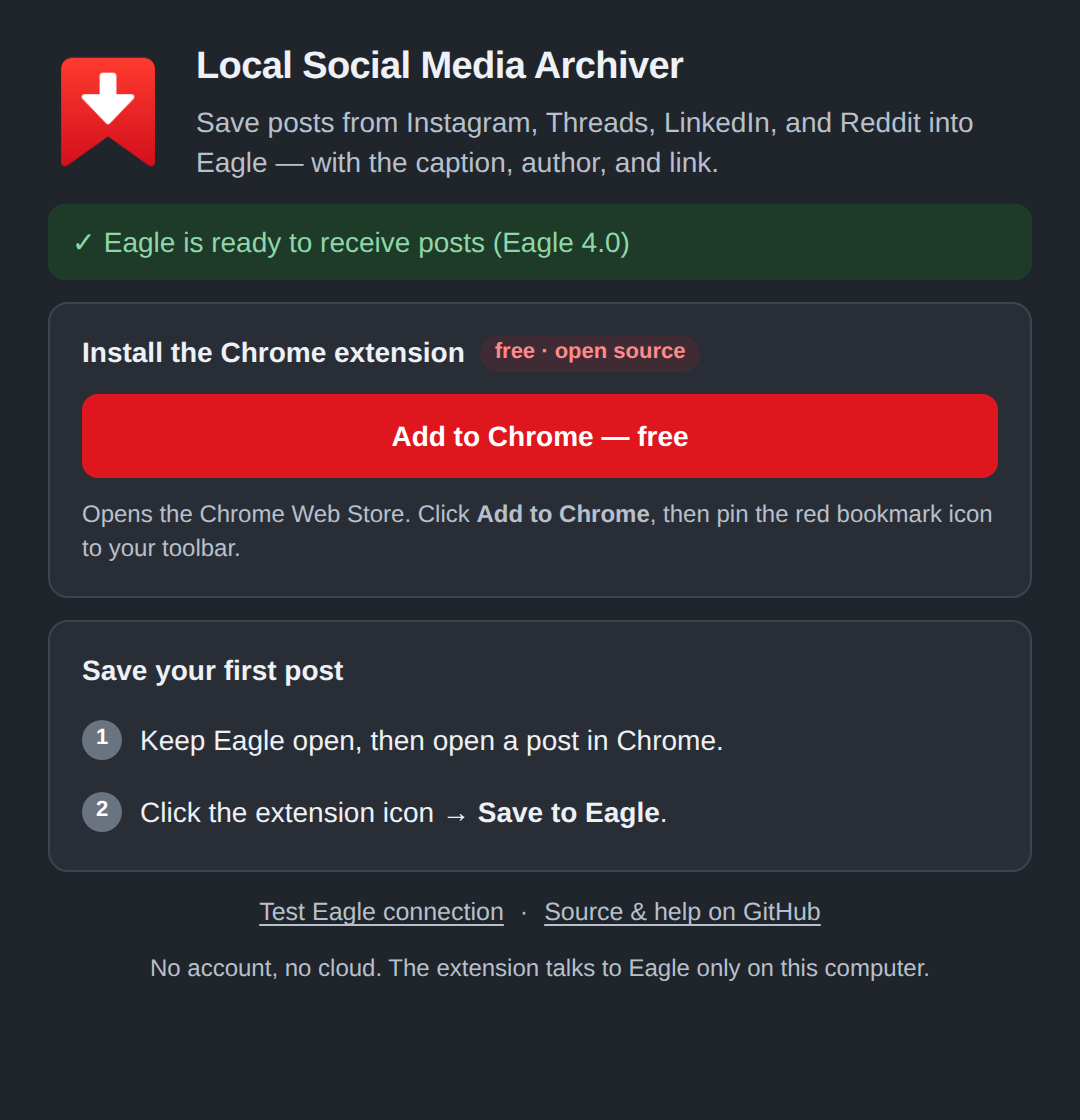
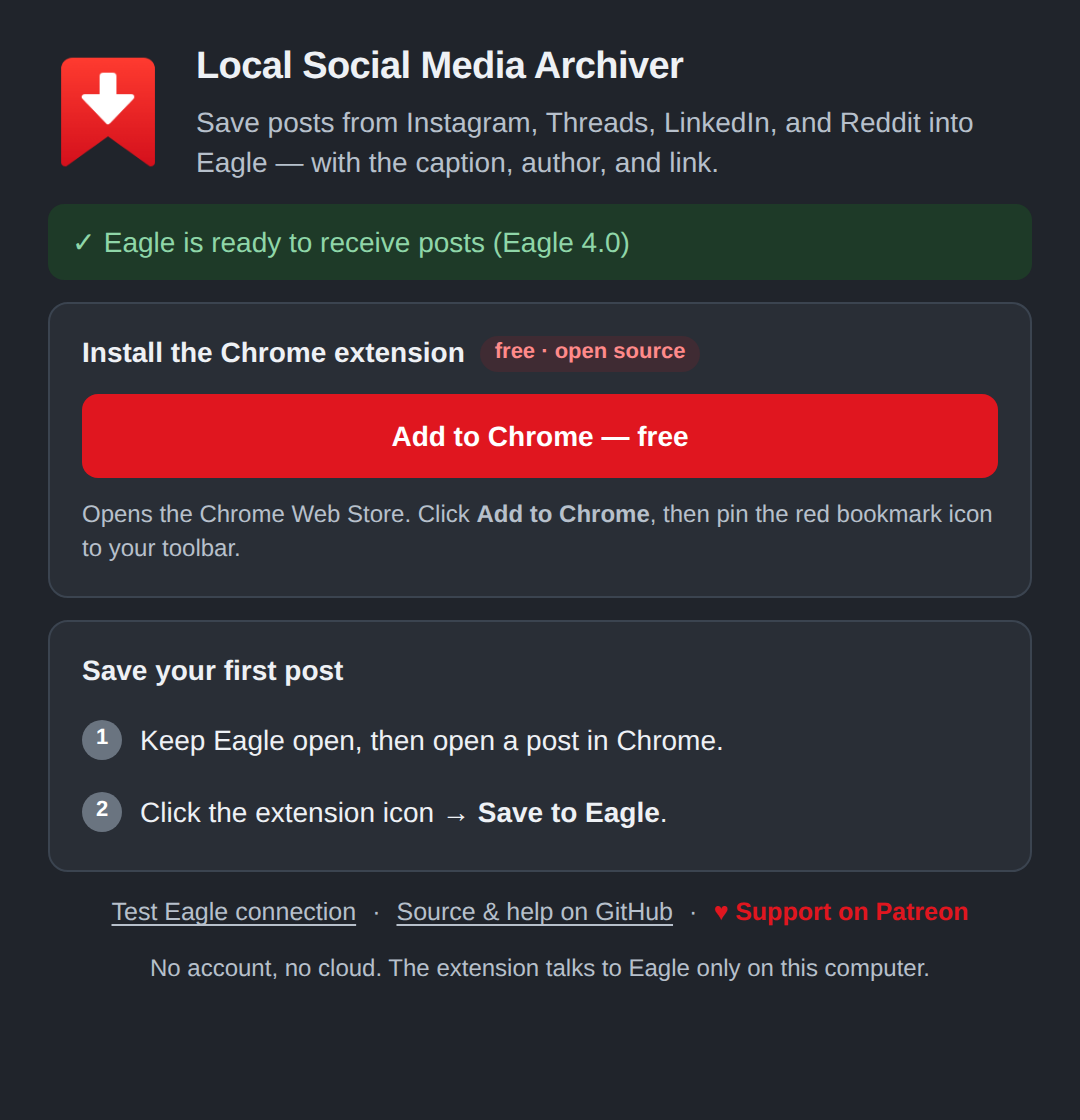
Add support links: Patreon, Telegram, GitHub Sponsor button
- .github/FUNDING.yml shows the Sponsor button on the repository
- Popup footer: "Support on Patreon" and Telegram links
- Eagle Companion footer link, opened in the system browser
- README Support section; Patreon in the marketplace listing draft
- Extension 0.2.1, Eagle Companion 0.2.2

Claude-Session: https://claude.ai/code/session_01BWzGfyfB5TgAkvLPHxc4Ut

Changed region(s): [[0.0917, 0.7812, 0.8861, 0.8438]]

diff --git a/eagle-companion/js/plugin.js b/eagle-companion/js/plugin.js
@@ -9,6 +9,7 @@ if (config.chromeWebStoreUrl) {
 document.querySelector('#open-store').addEventListener('click', () => openExternal(config.chromeWebStoreUrl));
 document.querySelector('#download-zip').addEventListener('click', () => openExternal(config.extensionZipUrl));
 document.querySelector('#open-repository').addEventListener('click', () => openExternal(config.repositoryUrl));
+document.querySelector('#open-support').addEventListener('click', () => openExternal(config.supportUrl));
 document.querySelector('#test-connection').addEventListener('click', testConnection);
 document.querySelector('#copy-extensions-url').addEventListener('click', async event => {
   // Chrome refuses to open chrome:// pages from other apps, so copy it instead.

diff --git a/eagle-companion/style.css b/eagle-companion/style.css
@@ -30,4 +30,6 @@ button.small { flex: none; padding: 6px 11px; font-size: 12.5px; }
 .status[data-state="error"] { background: #ffebeb; color: #a43232; }
 @media (prefers-color-scheme: dark) { .status[data-state="success"] { background: #1e3a28; color: #8fd6a8; } .status[data-state="warning"] { background: #3d321a; color: #f0c86e; } .status[data-state="error"] { background: #402426; color: #f2a0a0; } }
 footer { display: flex; justify-content: center; gap: 8px; color: var(--muted); font-size: 12.5px; }
+.link.support { color: var(--accent); font-weight: 600; text-decoration: none; }
+.link.support:hover { text-decoration: underline; }
 .privacy { margin: 0; color: var(--muted); font-size: 12px; text-align: center; }

diff --git a/chrome-extension/popup.css b/chrome-extension/popup.css
@@ -12,3 +12,7 @@ button { border: 0; border-radius: 8px; padding: 10px 12px; background: #e0161f;
 button:hover:not(:disabled) { filter: brightness(.92); }
 button:disabled { opacity: .6; cursor: wait; }
 output { min-height: 20px; white-space: pre-line; }
+.support { display: flex; gap: 12px; padding-top: 10px; border-top: 1px solid color-mix(in srgb, CanvasText 12%, transparent); font-size: 12px; }
+.support a { color: #777; text-decoration: none; }
+.support a:first-child { color: #e0161f; font-weight: 600; }
+.support a:hover { text-decoration: underline; }

diff --git a/eagle-companion/index.html b/eagle-companion/index.html
@@ -53,6 +53,8 @@
         <button id="test-connection" class="link">Test Eagle connection</button>
         <span aria-hidden="true">·</span>
         <button id="open-repository" class="link">Source &amp; help on GitHub</button>
+        <span aria-hidden="true">·</span>
+        <button id="open-support" class="link support">♥ Support on Patreon</button>
       </footer>
       <p class="privacy">No account, no cloud. The extension talks to Eagle only on this computer.</p>
     </main>

diff --git a/chrome-extension/popup.html b/chrome-extension/popup.html
@@ -18,6 +18,10 @@
       </label>
       <output id="status" aria-live="polite"></output>
       <small>Data and cookies are not sent to external servers.</small>
+      <nav class="support">
+        <a href="https://www.patreon.com/c/d_degtyar" target="_blank" rel="noopener">♥ Support on Patreon</a>
+        <a href="https://t.me/I2need" target="_blank" rel="noopener">Telegram</a>
+      </nav>
     </main>
     <script src="popup.js"></script>
   </body>

diff --git a/eagle-companion/js/config.js b/eagle-companion/js/config.js
@@ -5,5 +5,6 @@
 globalThis.LSMA_CONFIG = {
   repositoryUrl: "https://github.com/d-degtyar/Local-Social-Media-Archiver",
   extensionZipUrl: "https://github.com/d-degtyar/Local-Social-Media-Archiver/releases/latest/download/local-social-media-archiver-chrome.zip",
+  supportUrl: "https://www.patreon.com/c/d_degtyar",
   chromeWebStoreUrl: "https://chromewebstore.google.com/detail/local-social-media-archiv/hbjcghkjdbmphmbgkjkhncmihcbhenjj"
 };

diff --git a/README.md b/README.md
@@ -68,6 +68,14 @@ Load `chrome-extension/` as an unpacked extension while developing. The Eagle co
 
 The Eagle companion reads its install links from [`eagle-companion/js/config.js`](eagle-companion/js/config.js). While the extension ships through GitHub Releases, the companion shows a guided **Load unpacked** setup with a direct `.zip` download. Set `chromeWebStoreUrl` once a Chrome Web Store listing exists and the companion switches to a single install button.
 
+## Support
+
+Local Social Media Archiver is free and open source. If it saves you time, you can support its development:
+
+- [Patreon](https://www.patreon.com/c/d_degtyar)
+- [I2Need on Telegram](https://t.me/I2need): blog and updates
+- [d-degtyar.top](https://d-degtyar.top/): portfolio
+
 ## Privacy policy
 
 See [PRIVACY.md](PRIVACY.md).

diff --git a/docs/eagle-marketplace.md b/docs/eagle-marketplace.md
@@ -23,6 +23,8 @@ Private by design: no account and no server. The extension talks to Eagle only t
 
 Install the extension free from the Chrome Web Store: https://chromewebstore.google.com/detail/local-social-media-archiv/hbjcghkjdbmphmbgkjkhncmihcbhenjj
 
+**Support the project:** https://www.patreon.com/c/d_degtyar
+
 **Support contact:** https://github.com/d-degtyar/Local-Social-Media-Archiver/issues
 
 **Screenshots to prepare (at least 3):**

diff --git a/CHANGELOG.md b/CHANGELOG.md
@@ -1,6 +1,10 @@
 # Changelog
 
-## Eagle Companion 0.2.1
+## 0.2.1
+
+- Support links (Patreon, Telegram) in the popup, Eagle Companion, README, and the GitHub Sponsor button.
+
+## Eagle Companion 0.2.1 / 0.2.2
 
 - One-click install from the Chrome Web Store; the Load unpacked steps are no longer shown.
 
